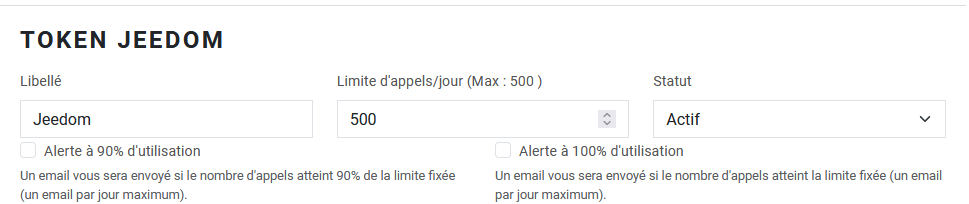
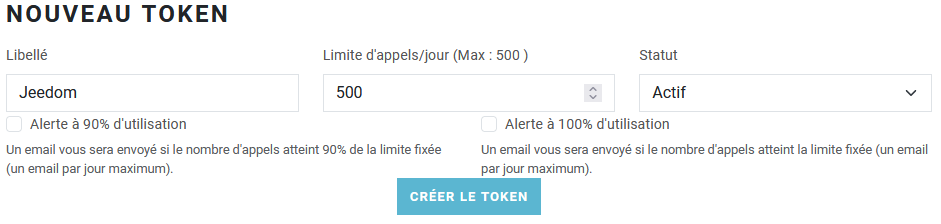
MaJ Documentation

diff --git a/docs/fr_FR/index.md b/docs/fr_FR/index.md
@@ -1,0 +1,85 @@
+# Plugin MeteoMC
+
+## Description
+
+Le plugin **MeteoMC** permet de récupérer les prévisions météorologiques d'une (ou plusieurs) villes(s). Il permet l'affichage sur 5 jours et par périodes.
+
+## Pré-Requis
+
+- Vous devez disposer d'un compte [MétéoConcept](https://api.meteo-concept.com), gratuit jusqu'à 500 appels par jour.
+
+## Installation 
+
+- Télécharger le plugin depuis le market
+- Activer le plugin
+
+# Compte MétéoConcept
+
+- Rendez-vous sur le site [MétéoConcept](https://api.meteo-concept.com/register/)
+- Créer un compte si vous n'en avez pas déjà un. N'oubliez pas d'activer le compte en cliquant sur le lien reçu dans un mail.
+- Une fois connecté à [votre compte](https://api.meteo-concept.com/profile/), cliquez sur "Mes abonnements"
+- Choisir un abonnement "Basique" gratuit.
+
+![Basique](../images/basique.png)
+
+- Vous êtes redirigé vers la page de configuration de votre abonnement. Cliquez sur "Afficher les Tokens".
+
+![Compte](../images/comptemc.png)
+
+- Ajoutez maintenant un token en cliquant sur "Ajouter un Token"
+
+![AjoutToken](../images/btntoken.png)
+
+- Configurer votre nouveau token comme ci-dessous.
+
+![NewToken](../images/token.png)
+
+- Votre token est maintenant disponible en cliquant sur "Afficher"
+
+![infoToken](../images/listetoken.png)
+
+# Paramètres de configuration :
+
+![Configuration](../images/configuration.png)
+
+- **Clef API Meteo Concept** : Token obtenu lors de l'étape précédente sur le site de MétéoConcept.
+
+# Equipements
+
+Les équipements sont accessibles à partir du menu Plugins → Météo.
+
+![Equipements](../images/equipements.png)
+
+## Création d'un équipement
+
+Chaque équipement représentera une Ville. Il vous suffit de cliquer sur "Ajouter".
+
+## Configuration d'un équipement
+
+Vous retrouvez ici toute la configuration de votre équipement :
+
+- **Nom de l’équipement** : nom de votre équipement.
+- **Objet parent** : indique l’objet parent auquel appartient l’équipement.
+- **Activer** : permet de rendre votre équipement actif.
+- **Visible** : rend votre équipement visible sur le dashboard.
+
+En dessous vous retrouvez les paramètres spécifiques de votre équipement:
+
+- **Ville** : Saisir ici la ville dont vous voulez la météo.
+- **Autres Paramètres** : Personnalisation de l'affichage du widget.
+
+![Equipement](../images/equipement.png)
+
+# Widget du plugin
+
+## Version Desktop
+
+![Desktop](../images/desktop.png)
+
+En cliquant sur la date voulue, vous obtenez le détail de la journée en 4 périodes.
+
+![Details](../images/details.png)
+
+## Version Mobile
+
+![Mobile](../images/mobile.png)

diff --git a/docs/fr_FR/index_beta.md b/docs/fr_FR/index_beta.md
@@ -16,12 +16,27 @@ Le plugin **MeteoMC** permet de récupérer les prévisions météorologiques d'
 # Compte MétéoConcept
 
 - Rendez-vous sur le site [MétéoConcept](https://api.meteo-concept.com/register/)
-- Créer un compte si vous n'en avez pas déjà un.
-- Une fois connecté à votre compte, cliquez sur "Mes abonnements"
+- Créer un compte si vous n'en avez pas déjà un. N'oubliez pas d'activer le compte en cliquant sur le lien reçu dans un mail.
+- Une fois connecté à [votre compte](https://api.meteo-concept.com/profile/), cliquez sur "Mes abonnements"
 - Choisir un abonnement "Basique" gratuit.
-- Créer un token pour le plugin.
+
+![Basique](../images/basique.png)
+
+- Vous êtes redirigé vers la page de configuration de votre abonnement. Cliquez sur "Afficher les Tokens".
+
+![Compte](../images/comptemc.png)
+
+- Ajoutez maintenant un token en cliquant sur "Ajouter un Token"
+
+![AjoutToken](../images/btntoken.png)
+
+- Configurer votre nouveau token comme ci-dessous.
 
 ![NewToken](../images/token.png)
+
+- Votre token est maintenant disponible en cliquant sur "Afficher"
+
+![infoToken](../images/listetoken.png)
 
 # Paramètres de configuration :
 
@@ -60,6 +75,10 @@ En dessous vous retrouvez les paramètres spécifiques de votre équipement:
 ## Version Desktop
 
 ![Desktop](../images/desktop.png)
+
+En cliquant sur la date voulue, vous obtenez le détail de la journée en 4 périodes.
+
+![Details](../images/details.png)
 
 ## Version Mobile
 

diff --git a/docs/fr_FR/changelog_beta.md b/docs/fr_FR/changelog_beta.md
@@ -4,6 +4,11 @@
 >
 >S'il n'y a pas d'information sur la mise à jour, c'est que celle-ci concerne uniquement de la mise à jour de documentation, de traduction ou de texte.
 
+# 08/11/2023
+- Finalisation des traductions.
+- Finalisation de la documentation.
+- Correction affichage fenetre modale de détail du jour.
+
 # 07/11/2023
 - Version fonctionnelle en Desktop et Mobile
 

diff --git a/docs/en_US/changelog_beta.md b/docs/en_US/changelog_beta.md
@@ -4,6 +4,11 @@
 >
 >If there is no information about the update, this means that it only concerns documentation, translation or text updates.
 
+# 08/11/2023
+- Finalising translations.
+- Finalising the documentation.
+- Correct display of the day's details modal window.
+
 # 07/11/2023
 - Functional version for Desktop and Mobile
 

diff --git a/docs/fr_FR/changelog.md b/docs/fr_FR/changelog.md
@@ -1,0 +1,8 @@
+# Changelog MeteoMC
+
+>**IMPORTANT**
+>
+>S'il n'y a pas d'information sur la mise à jour, c'est que celle-ci concerne uniquement de la mise à jour de documentation, de traduction ou de texte.
+
+# 08/11/2023
+- Première version stable

diff --git a/docs/en_US/changelog.md b/docs/en_US/changelog.md
@@ -1,0 +1,8 @@
+# Changelog MeteoMC
+
+>**IMPORTANT**
+>
+>If there is no information about the update, this means that it only concerns documentation, translation or text updates.
+
+# 08/11/2023
+- First stable release

diff --git a/docs/en_US/index.md b/docs/en_US/index.md
@@ -1,4 +1,4 @@
-# Plugin MeteoMC - BETA
+# Plugin MeteoMC
 
 ## Description
 
